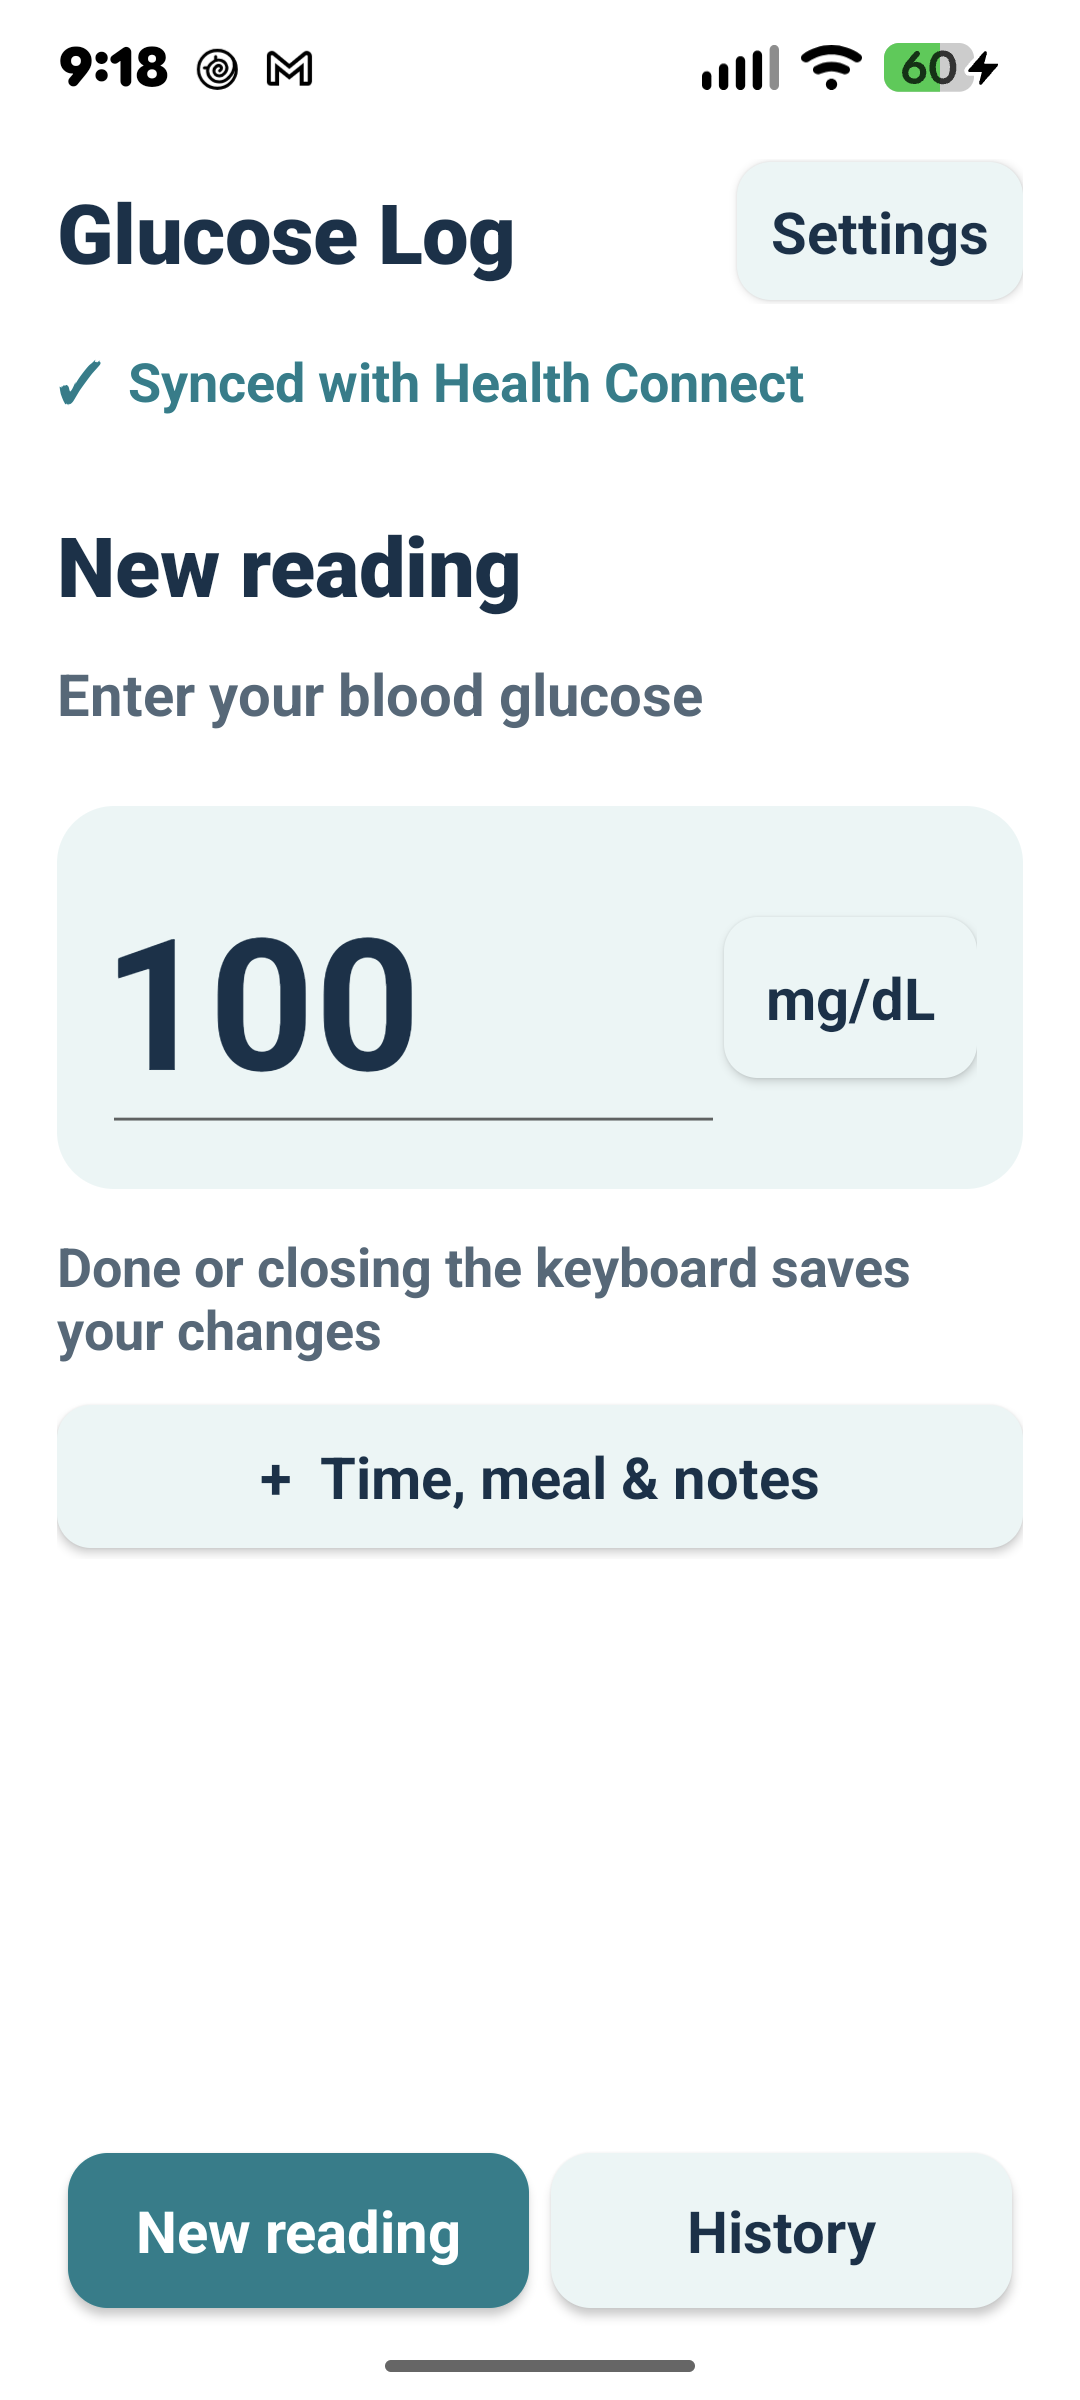
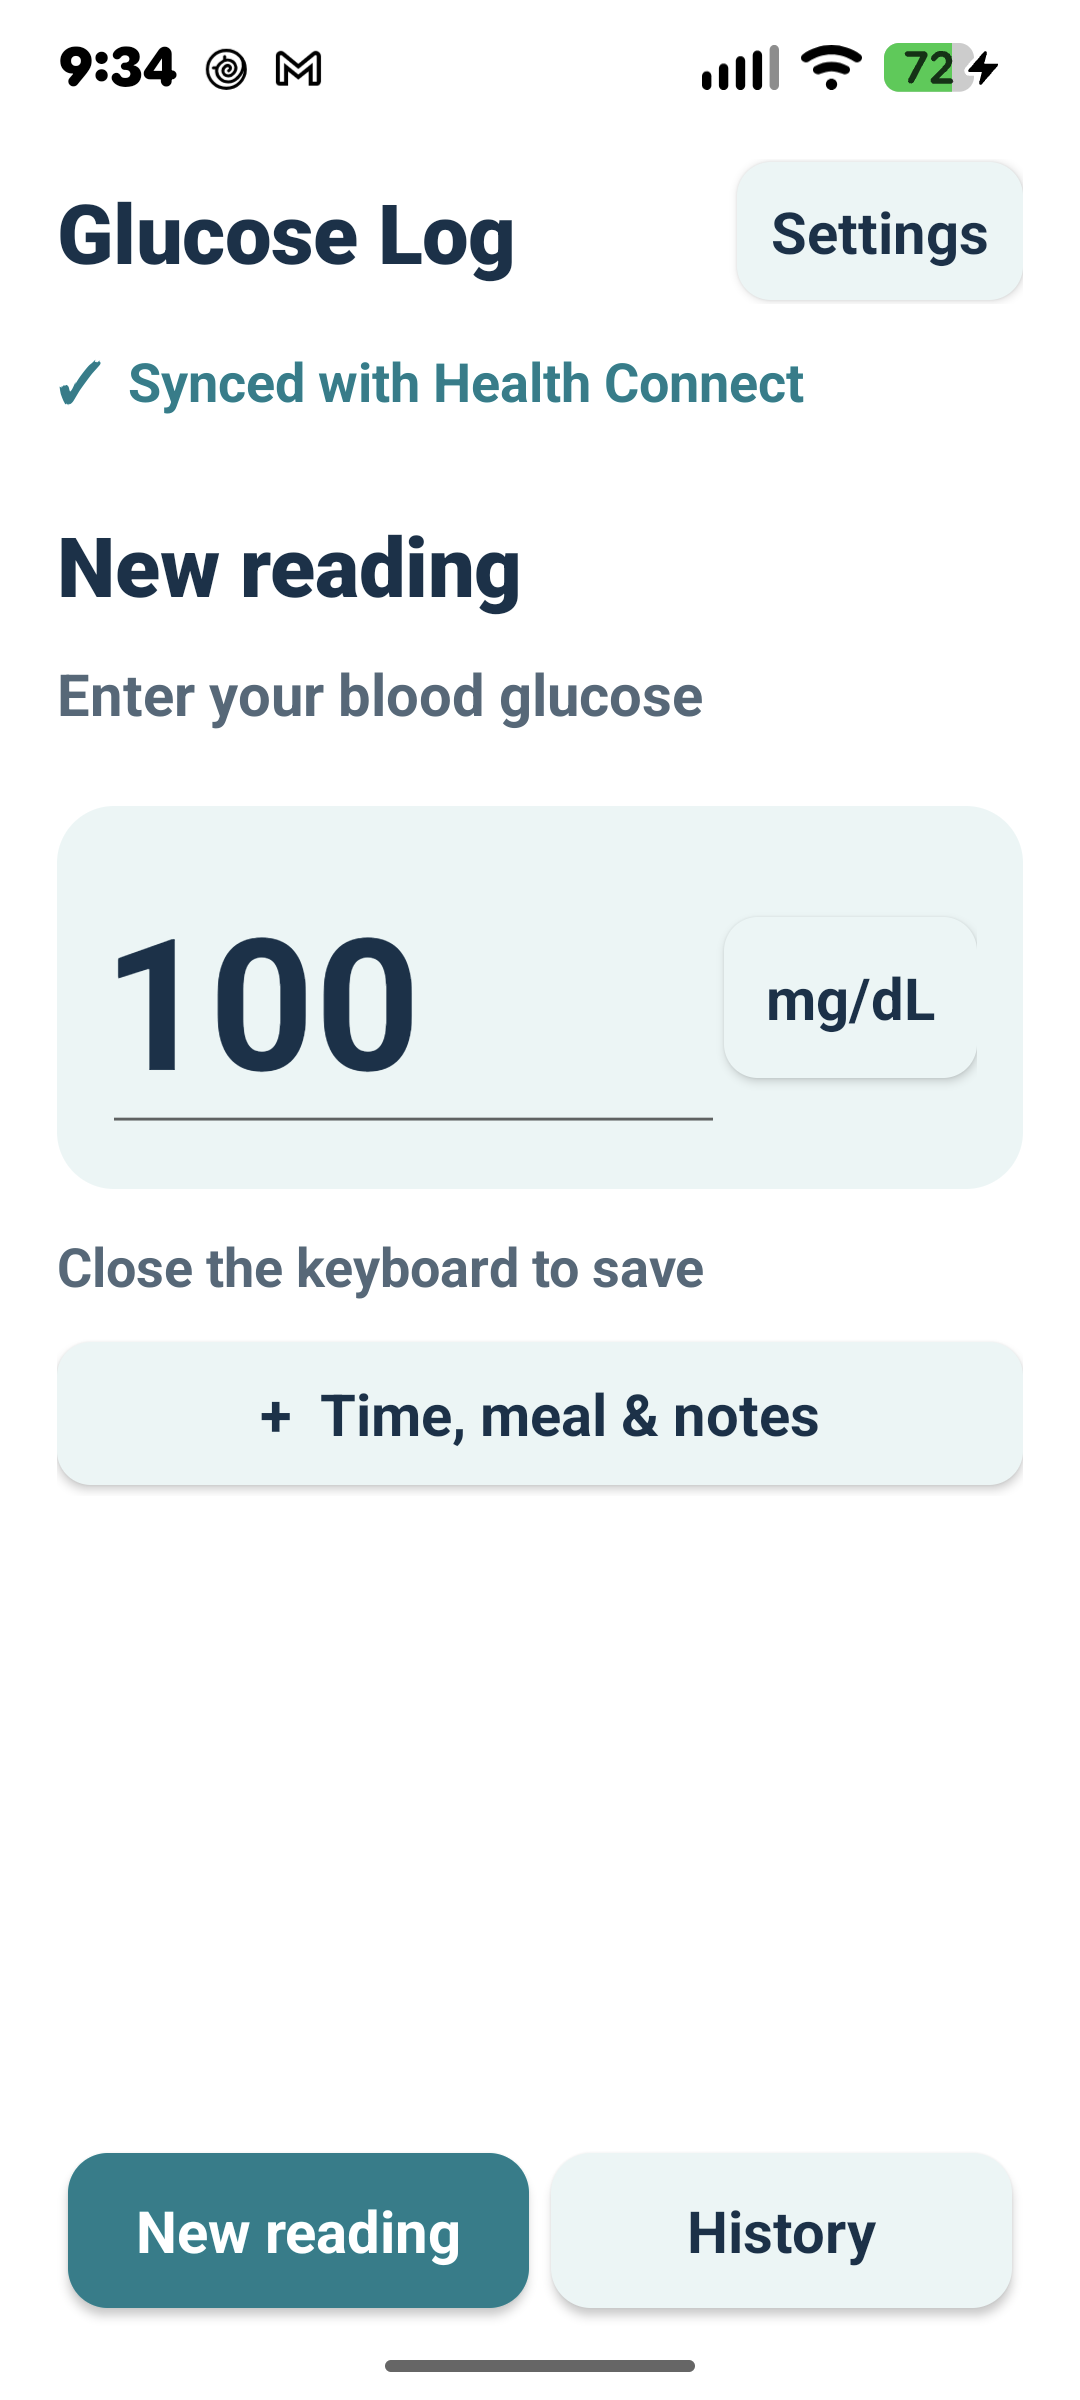
Improve graph scale and entry hint; add MIT license

diff --git a/app/src/main/java/dev/glucoselog/phone/EntryForm.kt b/app/src/main/java/dev/glucoselog/phone/EntryForm.kt
@@ -63,7 +63,7 @@ class EntryForm(c:Context,private val original:Entry?,saved:Bundle?,initialUnit:
   unitButton=Ui.button(c,unit.label) { switchUnit() }
   numberRow.addView(unitButton,LinearLayout.LayoutParams(-2,Ui.dp(c,56)))
   addView(numberRow)
-  addView(Ui.text(c,"Done or closing the keyboard saves your changes",14f).apply { setTextColor(Ui.muted) })
+  addView(Ui.text(c,"Close the keyboard to save",14f).apply { setTextColor(Ui.muted) })
   val details=Ui.column(c).apply { visibility=if(saved?.getBoolean("details")==true || original!=null) VISIBLE else GONE }
   val detailsToggle=Ui.button(c,if(details.visibility==VISIBLE) "Hide details" else "+  Time, meal & notes") {}
   detailsToggle.setOnClickListener { details.visibility=if(details.visibility==VISIBLE) GONE else VISIBLE; detailsToggle.text=if(details.visibility==VISIBLE) "Hide details" else "+  Time, meal & notes" }
@@ -80,7 +80,7 @@ class EntryForm(c:Context,private val original:Entry?,saved:Bundle?,initialUnit:
   details.addView(notes)
   notes.imeOptions=EditorInfo.IME_ACTION_DONE
   notes.setOnEditorActionListener { _,action,_ -> if(action==EditorInfo.IME_ACTION_DONE) { submit(); true } else false }
-  details.addView(Ui.text(c,"Notes stay on your phone. Done or closing the keyboard saves your changes.",13f).apply { setTextColor(Ui.muted) })
+  details.addView(Ui.text(c,"Notes stay on your phone. Close the keyboard to save.",13f).apply { setTextColor(Ui.muted) })
   if(original!=null) {
    editSaveButton=Ui.button(c,"Save changes",true) { submit() }
    addView(editSaveButton)

diff --git a/app/src/test/java/dev/glucoselog/phone/ChartScaleTest.kt b/app/src/test/java/dev/glucoselog/phone/ChartScaleTest.kt
@@ -1,0 +1,26 @@
+package dev.glucoselog.phone
+import org.junit.Assert.*
+import org.junit.Test
+class ChartScaleTest {
+ @Test fun singlePointAndNarrowWeekHaveMinimumSixtyPointSpan() {
+  for(values in listOf(listOf(99.0),listOf(92.0,98.0,105.0))) {
+   val axis=ChartScale.bounds(values,GlucoseUnit.MG)
+   assertEquals(60.0,axis.high-axis.low,0.000001)
+   assertTrue(axis.low<values.min() && axis.high>values.max())
+  }
+ }
+ @Test fun wideRangeExpandsAndRetainsAllValues() {
+  val axis=ChartScale.bounds(listOf(90.0,240.0),GlucoseUnit.MG)
+  assertTrue(axis.high-axis.low>150.0)
+  assertTrue(axis.low<90.0 && axis.high>240.0)
+ }
+ @Test fun lowerBoundNeverNegativeAndSpanIsPreserved() {
+  val axis=ChartScale.bounds(listOf(1.0,5.0),GlucoseUnit.MG)
+  assertEquals(0.0,axis.low,0.0); assertEquals(60.0,axis.high-axis.low,0.000001)
+ }
+ @Test fun unitsShowEquivalentBounds() {
+  val mg=ChartScale.bounds(listOf(92.0,105.0),GlucoseUnit.MG)
+  val mmol=ChartScale.bounds(listOf(92.0/18,105.0/18),GlucoseUnit.MMOL)
+  assertEquals(mg.low/18,mmol.low,0.000001); assertEquals(mg.high/18,mmol.high,0.000001)
+ }
+}

diff --git a/app/src/main/java/dev/glucoselog/phone/ChartView.kt b/app/src/main/java/dev/glucoselog/phone/ChartView.kt
@@ -6,7 +6,6 @@ import android.view.View
 import java.time.Instant
 import java.time.ZoneId
 import java.time.format.DateTimeFormatter
-import kotlin.math.max
 
 class ChartView(c:Context,entries:List<Entry>,private val unit:GlucoseUnit):View(c) {
  private val end=Instant.now().epochSecond
@@ -20,8 +19,8 @@ class ChartView(c:Context,entries:List<Entry>,private val unit:GlucoseUnit):View
   paint.textSize=12*resources.displayMetrics.scaledDensity; paint.color=Ui.muted
   if(points.isEmpty()) { canvas.drawText("Your readings will appear here.",16*d,height/2f,paint); return }
   val values=points.map { unit.fromMg(it.unit.toMg(it.value)) }
-  val min=values.min(); val maxValue=values.max(); val padding=max((maxValue-min)*0.15,if(unit==GlucoseUnit.MG) 10.0 else 0.6)
-  val low=max(0.0,min-padding); val high=maxValue+padding
+  val axis=ChartScale.bounds(values,unit)
+  val low=axis.low; val high=axis.high
   for(i in 0..2) {
    val y=bottom-(bottom-top)*i/2f
    paint.color=0xffd5e1e9.toInt(); paint.strokeWidth=d; canvas.drawLine(left,y,right,y,paint)

diff --git a/app/src/androidTest/java/dev/glucoselog/phone/DeviceChecks.kt b/app/src/androidTest/java/dev/glucoselog/phone/DeviceChecks.kt
@@ -39,7 +39,7 @@ class DeviceChecks:Instrumentation() {
    onUi {
     fun texts(v:View):List<String> = (if(v is TextView) listOf(v.text.toString()) else emptyList()) + (if(v is ViewGroup) (0 until v.childCount).flatMap { texts(v.getChildAt(it)) } else emptyList())
     val labels=texts(activity!!.window.decorView)
-    check(labels.contains("Glucose Log") && labels.contains("Done or closing the keyboard saves your changes")) { "Default entry form did not render" }
+    check(labels.contains("Glucose Log") && labels.contains("Close the keyboard to save")) { "Default entry form did not render" }
    }
    onUi {
     val decor=activity!!.window.decorView

diff --git a/app/src/main/java/dev/glucoselog/phone/ChartScale.kt b/app/src/main/java/dev/glucoselog/phone/ChartScale.kt
@@ -1,0 +1,15 @@
+package dev.glucoselog.phone
+import kotlin.math.max
+
+data class ChartBounds(val low:Double,val high:Double)
+object ChartScale {
+ /** A display scale, not a clinical target range. Compute padding consistently across units. */
+ fun bounds(values:List<Double>,unit:GlucoseUnit):ChartBounds {
+  require(values.isNotEmpty() && values.all { it.isFinite() && it>=0 })
+  val min=values.min(); val maxValue=values.max()
+  val padding=max((maxValue-min)*0.15,unit.fromMg(10.0))
+  val span=max(unit.fromMg(60.0),maxValue-min+padding*2)
+  val low=max(0.0,(min+maxValue)/2-span/2)
+  return ChartBounds(low,low+span)
+ }
+}

diff --git a/README.md b/README.md
@@ -7,7 +7,7 @@ A simple Android blood-glucose journal that syncs with Health Connect. Built for
 - Log in mg/dL or mmol/L; new entries start at 100 mg/dL.
 - Save with the keyboard's Done/Enter key, or dismiss the keyboard after making changes.
 - Optional measurement time, meal label, and local-only notes.
-- History, a seven-day graph, and editing/deletion.
+- History, a seven-day scatter plot, and editing/deletion. The graph spans at least 60 mg/dL (or the mmol/L equivalent), so small changes stay visually modest.
 - Automatic Health Connect sync, durable retries, and a toast confirming successful export.
 
 ## Screenshots
@@ -58,4 +58,8 @@ This is a personal logging app, not a glucose sensor or treatment advisor. It do
 
 ## Testing
 
-The JVM suite covers validation, unit conversion, timestamps, retry behavior, edit versions, keyboard dismissal, and sync confirmations. On-device checks use a separate temporary database and do not write synthetic readings to Health Connect. See [VALIDATION.md](VALIDATION.md) for verification details.
+The JVM suite covers graph scaling, validation, unit conversion, timestamps, retry behavior, edit versions, keyboard dismissal, and sync confirmations. On-device checks use a separate temporary database and do not write synthetic readings to Health Connect. See [VALIDATION.md](VALIDATION.md) for verification details.
+
+## License
+
+[MIT](LICENSE). Use, copy, modify, and share it freely; retain the license and copyright notice.

diff --git a/VALIDATION.md b/VALIDATION.md
@@ -1,3 +1,10 @@
+# Verification — Glucose Log 0.3.3
+
+- Graph uses a minimum 60 mg/dL span (equivalent in mmol/L), expands for wider data, and keeps its lower bound nonnegative. Points remain unconnected; this is a display scale, not a clinical target range.
+- 20 JVM tests pass, including narrow/single-point, wide-range, lower-bound, and unit-equivalence scaling cases. Android lint has zero errors.
+- Installed in place on Pixel 7 running Android 17. Existing isolated on-device regression checks pass; no synthetic Health Connect readings written. Test helper removed.
+- Entry and history screenshots captured on the phone and visually inspected. Entry hint now reads “Close the keyboard to save.”
+
 # Verification — Glucose Log 0.3.2
 
 Bottom navigation now clears the transient edit/draft and opens the chosen page. New reading always opens a fresh entry. Installed in place on Pixel. 16 JVM tests pass; lint zero errors. Phone regression verifies New reading removes edit controls and restores the default entry value. Prior phone checks pass. No synthetic Health Connect records written; test helper removed.
